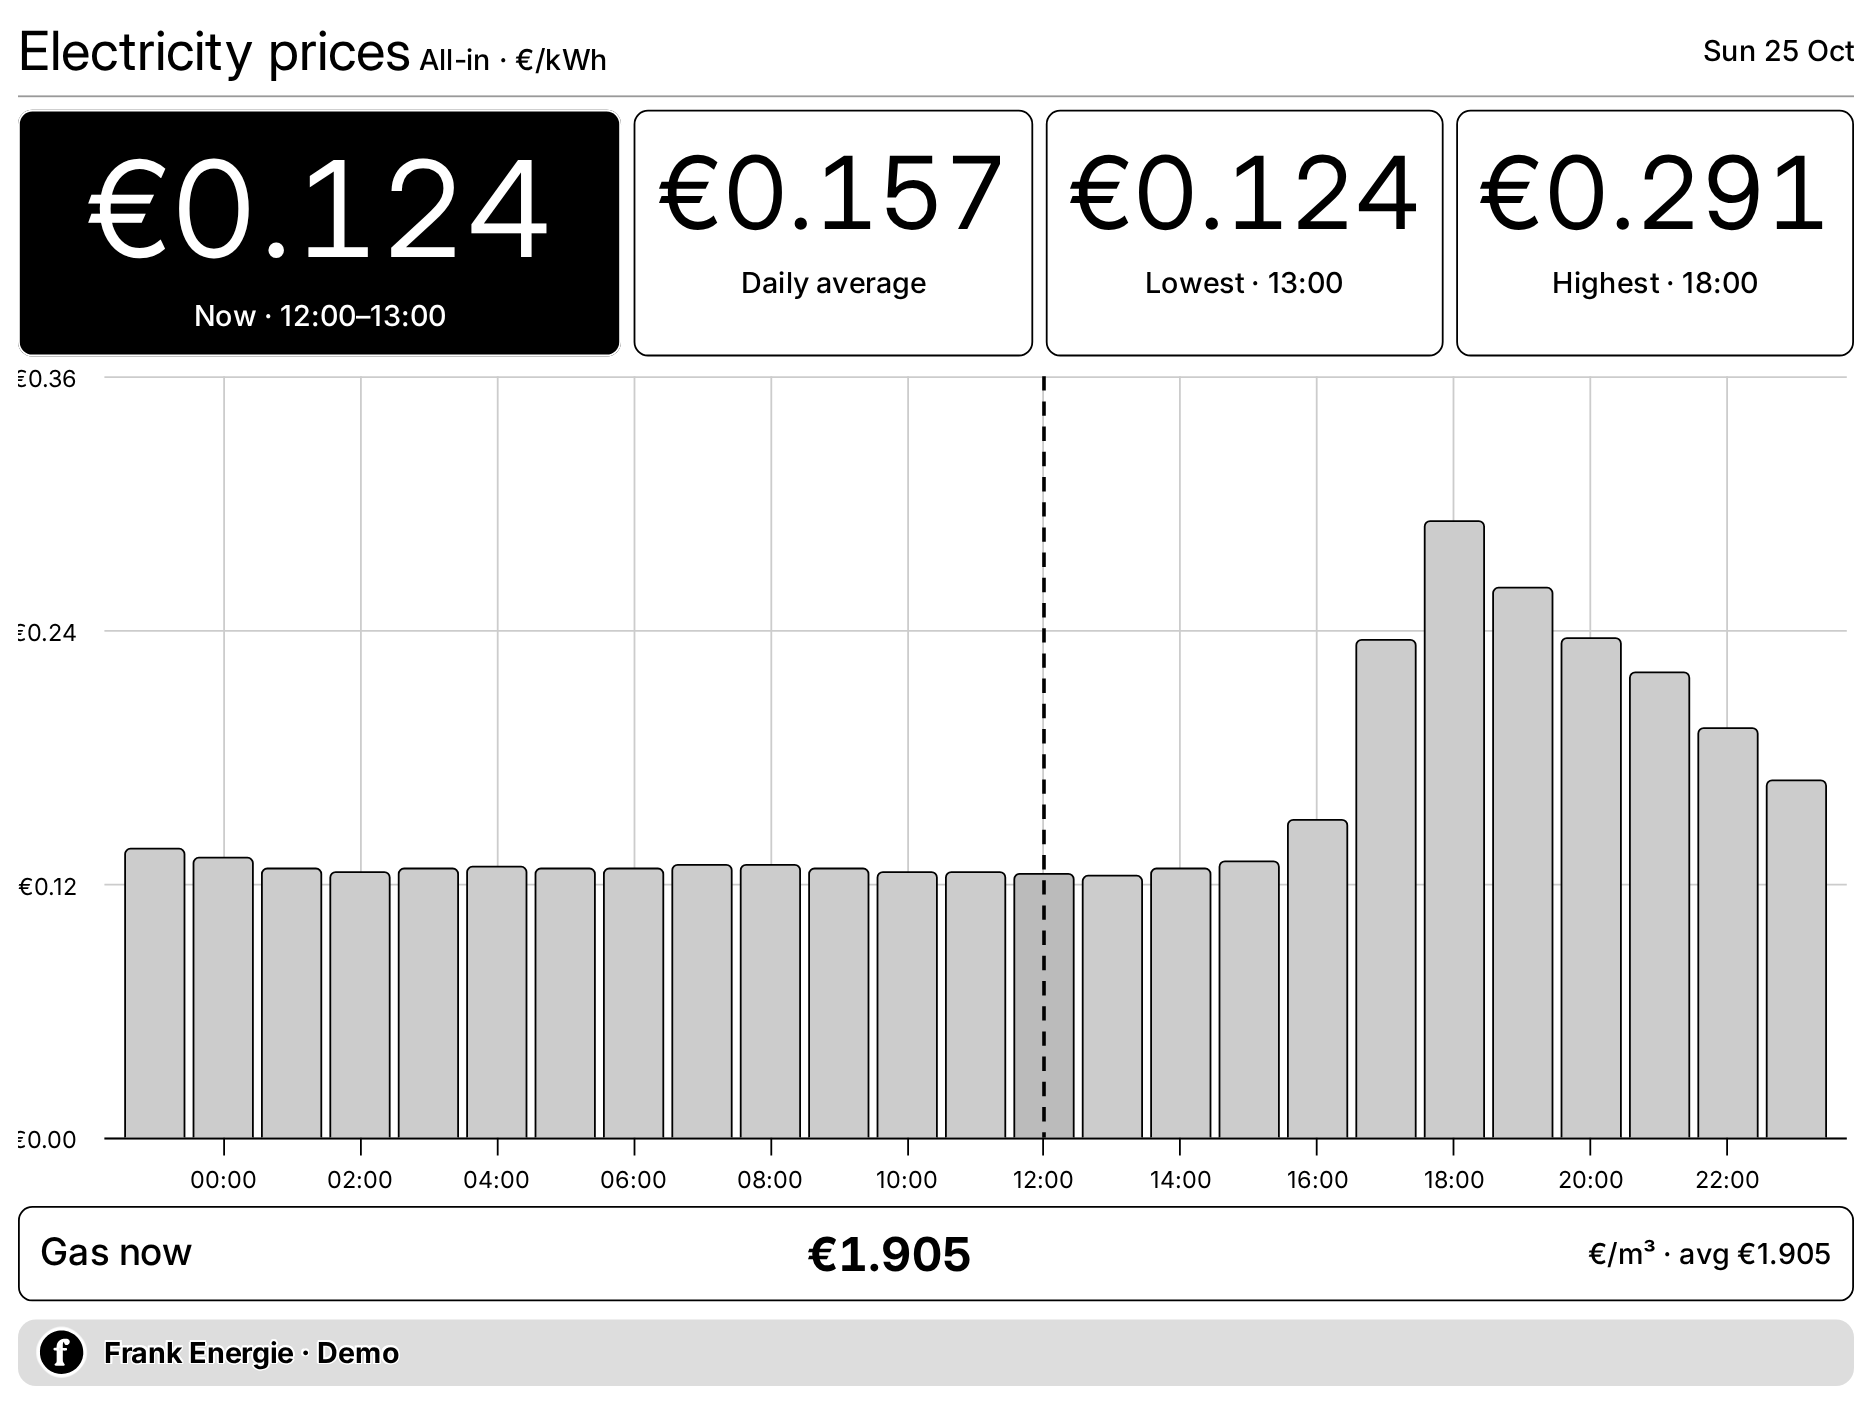
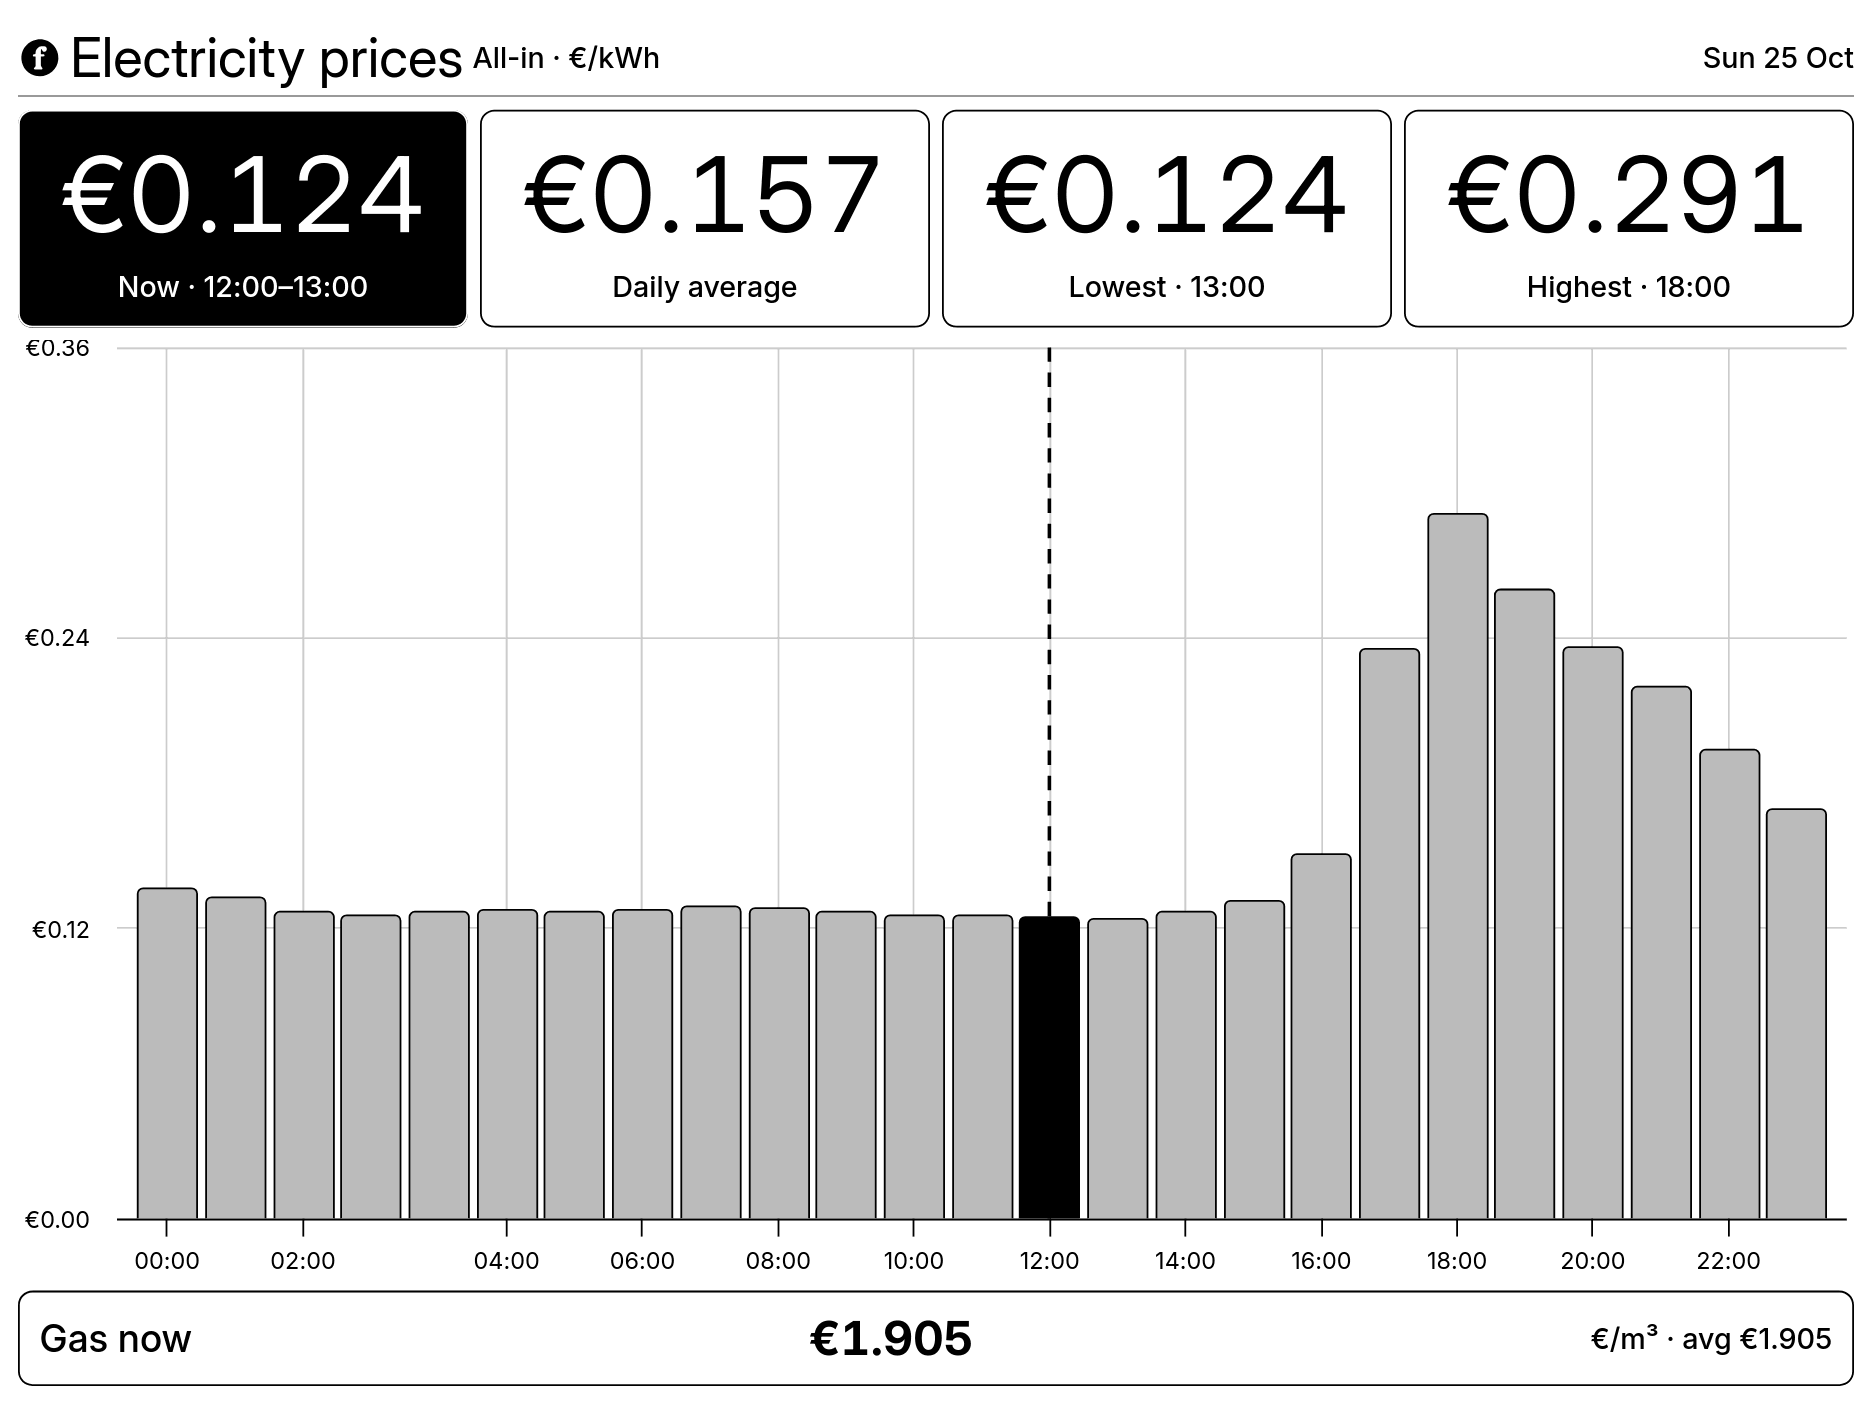
fix: reclaim space and stabilize chart previews
Move the Frank Energie logo into the price header, balance the price typography, and keep chart bars neutral during palette changes. Refresh the layout previews and remove the dedicated BWRY preview and references.

diff --git a/TRMNL/README.md b/TRMNL/README.md
@@ -22,10 +22,6 @@ Previews render the current Liquid templates with public market prices recorded 
 |-------------------|----------------|
 | ![Half Vertical View](media/preview_half_vertical.webp) | ![Quadrant View](media/preview_quadrant.webp) |
 
-| BWRY Full View |
-|----------------|
-| ![BWRY Full View](media/preview_bwry.webp) |
-
 | TRMNL X Landscape | TRMNL X Portrait |
 |-------------------|------------------|
 | ![TRMNL X Landscape](media/preview_trmnl_x.webp) | ![TRMNL X Portrait](media/preview_trmnl_x_portrait.webp) |
@@ -38,7 +34,7 @@ Previews render the current Liquid templates with public market prices recorded 
 - **half_vertical.liquid**: Current price, daily chart, three summary metrics and the secondary resource.
 - **quadrant.liquid**: Current, lowest and highest prices without a chart.
 
-The chart uses TRMNL Framework 3.3 paint helpers, so bars, text and grids adapt to grayscale, BWRY, themes and TRMNL X. The hourly chart uses the account's IANA timezone when available, including daylight-saving transitions; the current UTC offset is used as a fallback.
+The chart uses neutral bars and a solid highlight for the current hour. Its paint follows the TRMNL device and theme. The hourly chart uses the account's IANA timezone when available, including daylight-saving transitions. It falls back to the current UTC offset.
 
 
 ## Setup
@@ -49,6 +45,6 @@ Choose Electricity or Gas, save, and Force Refresh. Public prices are polled dir
 
 The original plugin design, parsing logic and markup are also offered under [CC BY 4.0](../LICENSE), matching [TRMNL’s public plugin license](https://trmnl.com/plugin-license). Third-party content keeps its own terms. For support, [open a GitHub issue](https://github.com/taichikuji/trmnl-frank-energie-plugin/issues).
 
-All four layouts render a native title bar. Display icons are monochrome SVGs, so raster dithering is unnecessary. Data requests run in native polling; no Serverless fetch is needed. Chart IDs use TRMNL’s native `append_random` filter to prevent collisions when multiple instances share a mashup.
+Data requests run in native polling. Chart IDs use TRMNL’s native `append_random` filter to prevent collisions when multiple instances share a mashup.
 
 Before submitting, save each setting in TRMNL, check all four views on OG and X (landscape and portrait), use a public demo preview, and review CHEF feedback. Repository checks and a successful upload do not replace these dashboard checks or human approval.

diff --git a/README.md b/README.md
@@ -15,7 +15,7 @@ Recorded demo prices, not current rates. [All layout previews](TRMNL/README.md#p
 - **Resource to Display:** Electricity or Gas (defaults to Electricity).
 - No account or personal API key needed.
 
-Full, half horizontal, half vertical and quadrant layouts support TRMNL OG, BWRY and TRMNL X, including portrait. Prices use €/kWh for electricity and €/m³ for gas. Data refreshes every 60 minutes.
+Full, half horizontal, half vertical and quadrant layouts support TRMNL OG and TRMNL X, including portrait. Prices use €/kWh for electricity and €/m³ for gas. Data refreshes every 60 minutes.
 
 ## Develop locally
 
